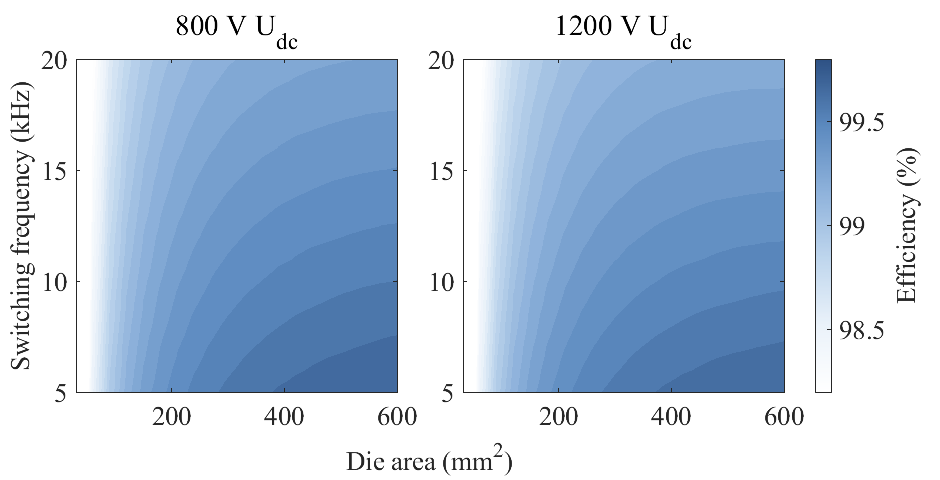
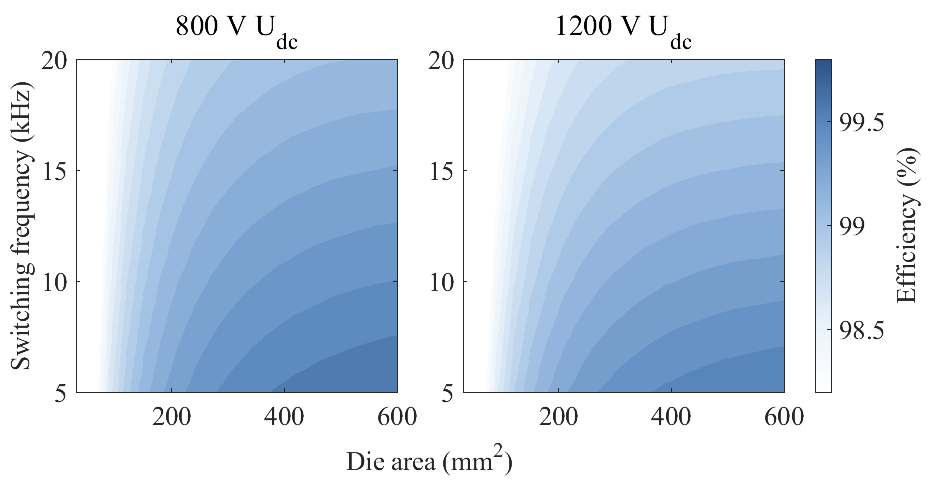
1.2kV Paper Graphs

diff --git a/1.2kV-Paper/Matlab Codes/DieAreaLossComparison/comparisonFinal.m b/1.2kV-Paper/Matlab Codes/DieAreaLossComparison/comparisonFinal.m
@@ -6,16 +6,16 @@
 clear; clc; close all;
 
 %% ---------- BASE PARAMETERS (edit here) ----------
-S.Pout        = 300e3;        % W
+S.Pout        = 250e3;        % W
 S.ffund       = 500;          % Hz
 S.cosphi      = 1.0;
 S.ma          = 1.0;
-S.Ipk_base    = 356;          % A @ 1200 V
+S.Ipk_base    = 282;          % A @ 1200 V
 S.Fsw_vec     = 5e3:0.5e3:20e3; % Hz
 S.Adie_vec    = 30:30:600;    % mm^2
 
 % Conduction model
-S.k_r         = 7.2e-3*63;
+S.k_r         = 7.2e-3*63*1.6;
 S.alpha_r     = 1.6;
 
 % Coss / Ezcs model
@@ -23,7 +23,7 @@ S.k_c         = 1.6e4;
 S.alpha_c     = -1;
 
 % Overlap model params
-S.dv_dt       = 20e9;         % V/s
+S.dv_dt       = 10e9;         % V/s
 S.di_dt       = 10e9;         % A/s
 
 S.scale_temp  = 1.0;          % R_DS(on) temp scaling
@@ -41,7 +41,7 @@ S.eta_caxis   = [98.2 99.8];
 
 % "Switching loss vs |I|" demo point
 S.plotIL.A_sel   = 300;       % mm^2
-S.plotIL.fsw_sel = 14e3;      % Hz
+S.plotIL.fsw_sel = 10e3;      % Hz
 
 % Deviation bands (relative)
 S.band.rds_rel   = 0.10;
@@ -130,7 +130,7 @@ for k = 1:2
     end
 
     P_tot_y = 3*(P_on_y + P_zcs_y + P_over_y);
-    eta_y   = 100*S.Pout./(S.Pout + P_tot_y);
+    eta_y   = 100*(S.Pout-P_tot_y)./S.Pout;
 
     P_on{k}=P_on_y; P_zcs{k}=P_zcs_y; P_over{k}=P_over_y; eta{k}=eta_y;
     rds_curves(k,:) = S.scale_temp * S.k_r * Ub_kV^S.alpha_r ./ A_die_a;
@@ -322,15 +322,15 @@ for k = 1:2
     if k==1, c=col800; else, c=col1200; end
 
     % shaded region
-    fill([IL, fliplr(IL)], ([Plow, fliplr(Phigh)]/1e3), ...
+    fill([IL/sqrt(2), fliplr(IL/sqrt(2))], ([Plow, fliplr(Phigh)]/1e3), ...
          c, 'FaceAlpha',0.14, 'EdgeColor','none', 'HandleVisibility','off');
 
     % main curve
-    plot(IL, Ptot_inv/1e3, 'LineWidth',2.5, 'Color',c, ...
+    plot(IL/sqrt(2), Ptot_inv/1e3, 'LineWidth',2.5, 'Color',c, ...
          'DisplayName',sprintf('%s',cases(k).name));
 end
 
-xlabel('|I_L| (A)');
+xlabel('Phase Current (A_{RMS})');
 ylabel('Total switching loss (kW)');
 % title(sprintf('Total Switching Loss vs |I|  (A_{die}=%d mm^2, f_{sw}=%.1f kHz)', A_sel, fsw_sel/1e3));
 legend('Location','northwest','Box','on','Color','w');

diff --git a/1.2kV-Paper/Matlab Codes/CapacitorSizing/CapacitorVolumeComparison.m b/1.2kV-Paper/Matlab Codes/CapacitorSizing/CapacitorVolumeComparison.m
@@ -10,14 +10,14 @@ addpath('C:\Github\KTH\ECCE\Modlab used in the course folder');
 f1          = 500;                % Fundamental frequency [Hz]
 ma_sel      = 1;               % Modulation index
 pf_sel      = 0.90;               % Power factor (cos phi)
-P_out       = 300e3;              % Output power [W]
+P_out       = 250e3;              % Output power [W]
 overmod_fac = 1.15;               % Overmodulation factor
 
 Ud_list     = [800, 1200];        % DC-link voltages to compare [V]
 
 % Ripple target
 use_frac_ripple = true;           % true: fractional ripple; false: absolute
-DeltaV_frac      = 0.0045;          % 1% ripple of Ud
+DeltaV_frac      = 0.0055;          % 1% ripple of Ud
 DeltaV_abs       = 10;            % 10 V absolute ripple
 
 % Switching frequency sweep
@@ -27,6 +27,7 @@ f_sw_vec    = 5e3 : 1e3 : 20e3;   % [Hz]
 carrytype   = 'tria';
 smp         = 'ns';
 cmode       = 'tri6';
+cmode       = 'none';
 thetac      = 0;
 start_angle = 0;
 end_angle   = 2*pi;

diff --git a/1.2kV-Paper/Matlab Codes/BearingCurrent/bearingCurrent.m b/1.2kV-Paper/Matlab Codes/BearingCurrent/bearingCurrent.m
@@ -30,7 +30,7 @@ Sc = double(t>=tC1 & t<tC2);
 % -------------------- Capacitances & BVR --------------------
 Csr      = 1.2e-9;      % stator–rotor [F]
 Cwr_800  = 400e-12;     % winding–rotor [F]
-Cwr_1200 = 200e-12;     % reinforced insulation
+Cwr_1200 = 300e-12;     % reinforced insulation
 Cb_each  = 150e-12;     % per bearing [F]
 Cb_tot   = 10*Cb_each;
 
@@ -57,12 +57,12 @@ set(groot, 'DefaultAxesFontName','Times New Roman', ...
 
 % Muted color palette
 c1 = [0.36 0.54 0.75];   % muted blue (base)
-c2 = [0.60 0.75 0.90];   % lighter blue
-c3 = [0.25 0.35 0.55];   % darker blue
+c3 = [0.60 0.75 0.90];   % lighter blue
+c2 = [0.25 0.35 0.55];   % darker blue
 
 % -------------------- Figure --------------------
 %% -------------------- Improved Figure Layout --------------------
-figure('Color','w','Position',[200 120 1200 800]); % more compact figure
+figure('Color','w','Position',[200 120 800 800]); % more compact figure
 
 % Common font settings
 font_axes = 25;

diff --git a/1.2kV-Paper/Matlab Codes/HolisticLosses/Infineon_motor_inverter.m b/1.2kV-Paper/Matlab Codes/HolisticLosses/Infineon_motor_inverter.m
@@ -5,6 +5,22 @@ load('C:\Github\KTH\Loss Calculations\2000V\motorlosses\savefsw1.mat')
 load('C:\Github\KTH\Loss Calculations\2000V\savefsw_tot.mat')
 load('C:\Github\KTH\Loss Calculations\2000V\savePfsw.mat')
 
+
+fsw_tot = 1e3*[7 10 15 19];     % known fsw points (Hz)
+P_fsw   = [1700 2300 3200 3900];    % known losses (W)
+
+% New frequency vector from 5 kHz to 30 kHz:
+fsw_vec = 1e3 * (5:1:30);    
+
+% Interpolate + extrapolate (linear)
+P_interp = interp1(fsw_tot, P_fsw, fsw_vec, 'linear', 'extrap');
+
+
+fsw_tot=fsw_vec;
+P_fsw=P_interp;
+
+P_M=P_M;
+
 P_tot = P_fsw + P_M;
 
 % --- Dull blue color palette ---

diff --git a/1.2kV-Paper/Matlab Codes/HolisticLosses/inverter_losses.m b/1.2kV-Paper/Matlab Codes/HolisticLosses/inverter_losses.m
@@ -2,6 +2,20 @@
 load('C:\Github\KTH\Loss Calculations\2000V\savefsw_tot.mat')
 load('C:\Github\KTH\Loss Calculations\2000V\savePfsw.mat')
 
+fsw_tot = 1e3*[7 10 15 19];     % known fsw points (Hz)
+P_fsw   = [1700 2300 3200 3900];    % known losses (W)
+
+% New frequency vector from 5 kHz to 30 kHz:
+fsw_vec = 1e3 * (5:1:30);    
+
+% Interpolate + extrapolate (linear)
+P_interp = interp1(fsw_tot, P_fsw, fsw_vec, 'linear', 'extrap');
+
+
+fsw_tot=fsw_vec;
+P_fsw=P_interp;
+
+
 % --- Dull blue tone (same family as previous plots) ---
 cInv = [70 100 150]/255;
 

diff --git a/1.2kV-Paper/Matlab Codes/thermal_calculation.m b/1.2kV-Paper/Matlab Codes/thermal_calculation.m
@@ -7,8 +7,8 @@ r_jc_eq= 2.5/Die_area/6;
 r_ch_eq= 0.025/3;
 
 
-P_loss= ((300/0.994)-300)*1e3
-DeltaT=75;
+P_loss= (-(250*0.992)+250)*1e3
+DeltaT=125;
 
 r_tot= DeltaT/ P_loss;
  rha=r_tot-r_jc_eq-r_ch_eq;
